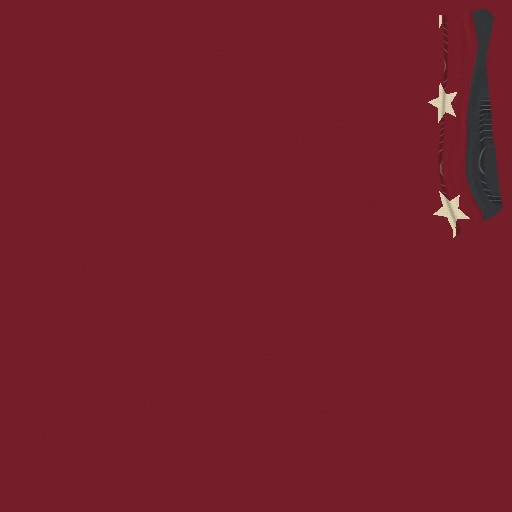
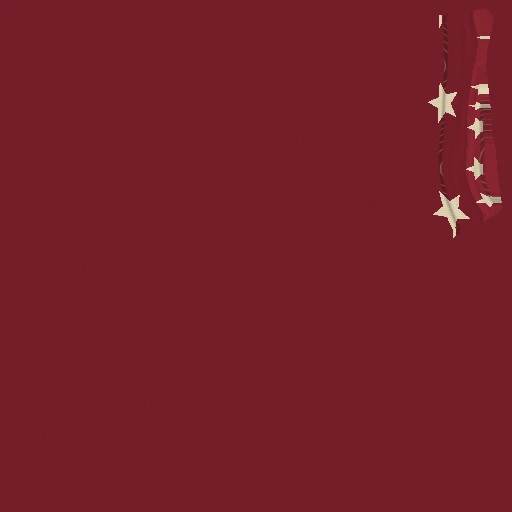
feat(maos): E com luva vermelha e estrelas; FUNKEIROS em três propostas (ouro, grife, corrente)
E: a luva vira vermelha (#8c2632, família da manga) com estrelas creme miúdas em volta da
mão e dos dedos — a pistola mostra quase só a luva, e a luva escura lisa do E era igual à
do F. F_OPCOES em vmhands: `ouro` (luva dourada sem dedos, padrão), `grife` (luva preta
com treliça dourada de grife) e `corrente` (a proposta anterior, cordão no pulso);
?vmmaosf=<opção> troca na revisão. Os atlas do F passam a ter o id da opção
(F_ouro/F_grife/F_corrente); vm-hand-atlas-check lê o id do estilo.

teamHands guarda facção e estilo; a troca compara o estilo. HAND_ATLAS_VERSION team-hands-8.

Commit-grande: atlas WebP de E e das três opções de F em K e L (e os F antigos removidos), gerados pelo mesmo script.
Agent: Claude Opus (vm-maos-por-time)

Changed region(s): [[0.9062, 0.0, 1.0, 0.4375]]

diff --git a/public/js/vmhands.js b/public/js/vmhands.js
@@ -1,17 +1,24 @@
 import * as THREE from 'three';
 
+// Três propostas para FUNKEIROS (o dono escolhe; ?vmmaosf=<opção> na revisão). docs/reports/VM-MAOS-POR-TIME.md.
+export const F_OPCOES = Object.freeze({
+  ouro: Object.freeze({ id: 'F_ouro', glove: '#c9a227', sleeve: '#232326', accent: '#232326', motif: 'plain', fingerless: true }),
+  grife: Object.freeze({ id: 'F_grife', glove: '#1f1f23', sleeve: '#232326', accent: '#d4a73a', motif: 'grife', fingerless: true }),
+  corrente: Object.freeze({ id: 'F_corrente', glove: '#34363a', sleeve: '#292b30', accent: '#c9a227', motif: 'corrente', fingerless: true }),
+});
+const F_QS = typeof location !== 'undefined' ? new URLSearchParams(location.search).get('vmmaosf') : null;
 export const TEAM_HANDS = Object.freeze({
-  E: Object.freeze({ id: 'E', glove: '#34363a', sleeve: '#781f2a', accent: '#e2d6b5', motif: 'star', fingerless: false }),
+  E: Object.freeze({ id: 'E', glove: '#8c2632', sleeve: '#781f2a', accent: '#e2d6b5', motif: 'star', fingerless: false }),
   B: Object.freeze({ id: 'B', glove: '#4e5740', sleeve: '#4e5740', accent: '#a5a57b', motif: 'camo', fingerless: false }),
   C: Object.freeze({ id: 'C', glove: '#dad8cd', sleeve: '#493544', accent: '#ba3544', motif: 'plain', fingerless: false }),
-  F: Object.freeze({ id: 'F', glove: '#34363a', sleeve: '#292b30', accent: '#c9a227', motif: 'corrente', fingerless: true }),
+  F: F_OPCOES[F_QS] || F_OPCOES.ouro,
   U: Object.freeze({ id: 'U', glove: '#34363a', sleeve: '#292b30', accent: '#d9d7cf', motif: 'checker', fingerless: true }),
   M: Object.freeze({ id: 'M', glove: '#4a3b28', sleeve: '#3d1f66', accent: '#b8914a', motif: 'trama', fingerless: false }),
 });
 // Neutro = base da fábrica (braco-coro-ak.json): luva e manga Mandrake da AK aprovada, em sRGB.
 const NEUTRAL_HANDS = Object.freeze({ id: 'neutral', glove: '#242f38', sleeve: '#243c4d', accent: '#797d80', motif: 'plain', fingerless: false });
 export const teamHandStyle = (faction) => TEAM_HANDS[faction] || NEUTRAL_HANDS;
-export const HAND_ATLAS_VERSION = 'team-hands-7';
+export const HAND_ATLAS_VERSION = 'team-hands-8';
 
 // Rig A (AK golden), L (faca), K (SK_Arms_Mono): docs/reports/VM-MAOS-POR-TIME.md.
 // O GLTFLoader tira os pontos dos nomes de osso (hand.R_metarig → handR_metarig).
@@ -30,7 +37,7 @@ export function refreshTeamHands(meshes, profile) {
     const update = (material) => {
       const current = material?.userData.teamHands;
       if (!current) return material;
-      if (current.faction === teamHandStyle(profile.faction).id) return material;
+      if (current.style === teamHandStyle(profile.faction).id) return material;
       const next = applyTeamHandMaterial(material, profile, current.layout);
       material.dispose(); // o material pertence ao controlador; atlas compartilhados ficam no cache
       return next;
@@ -70,7 +77,7 @@ export function applyTeamHandMaterial(material, profile, layout) {
     copy.map = maps.get(key);
     copy.bumpMap = maps.get(`${key}:height`);
   }
-  copy.userData.teamHands = { faction: style.id, layout, role, key, fingerless: style.fingerless };
+  copy.userData.teamHands = { faction: TEAM_HANDS[profile.faction] ? profile.faction : style.id, style: style.id, layout, role, key, fingerless: style.fingerless };
   copy.needsUpdate = true;
   return copy;
 }
